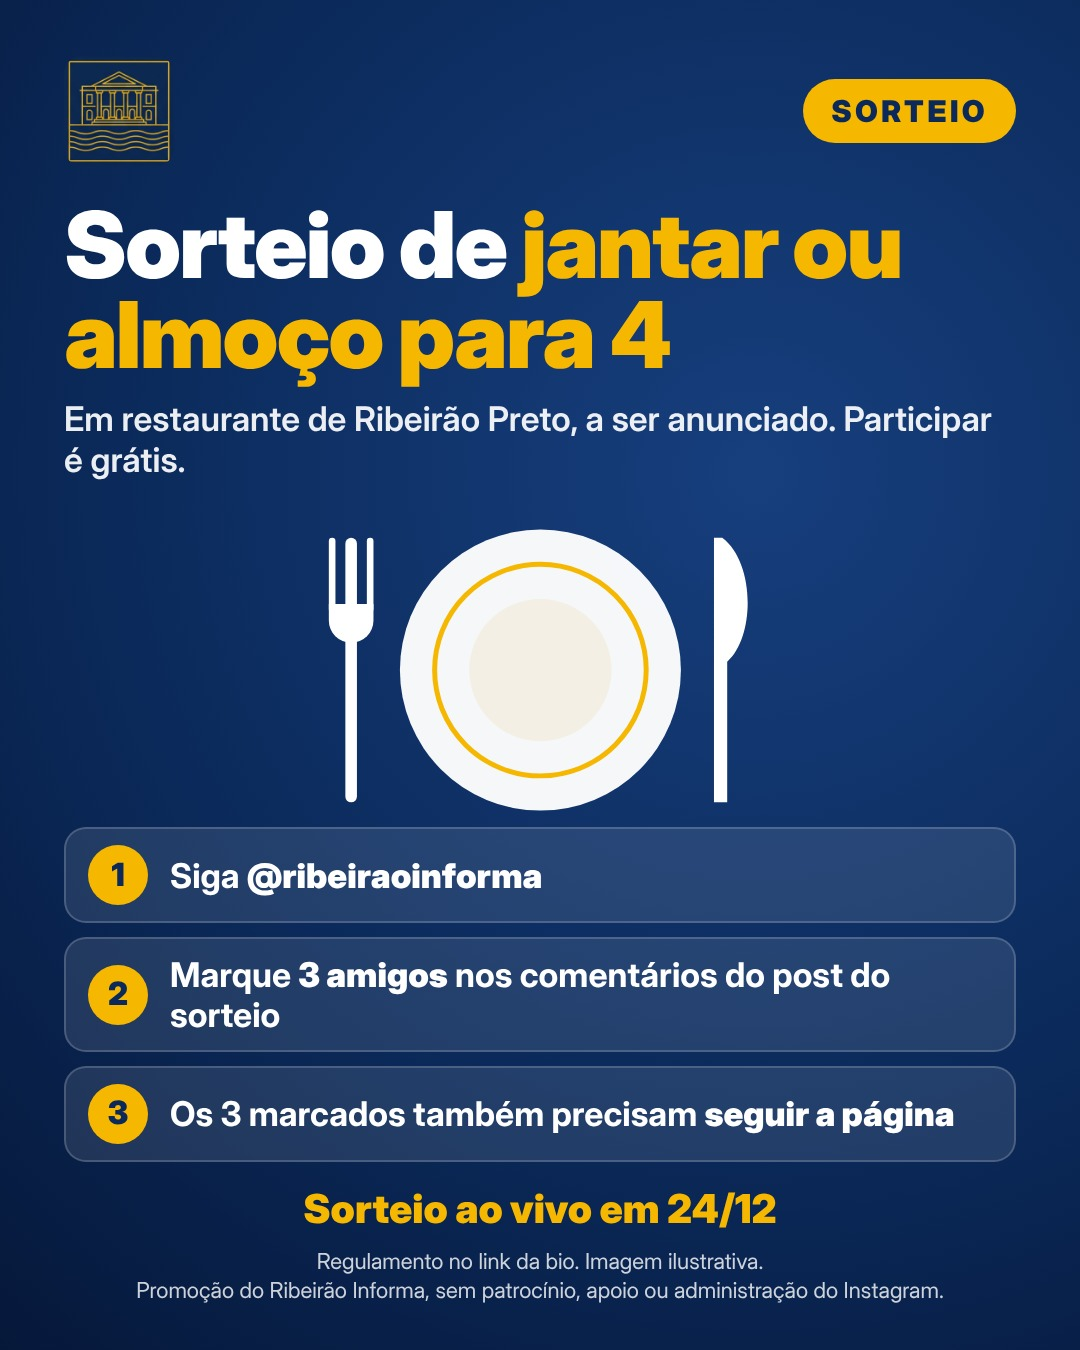
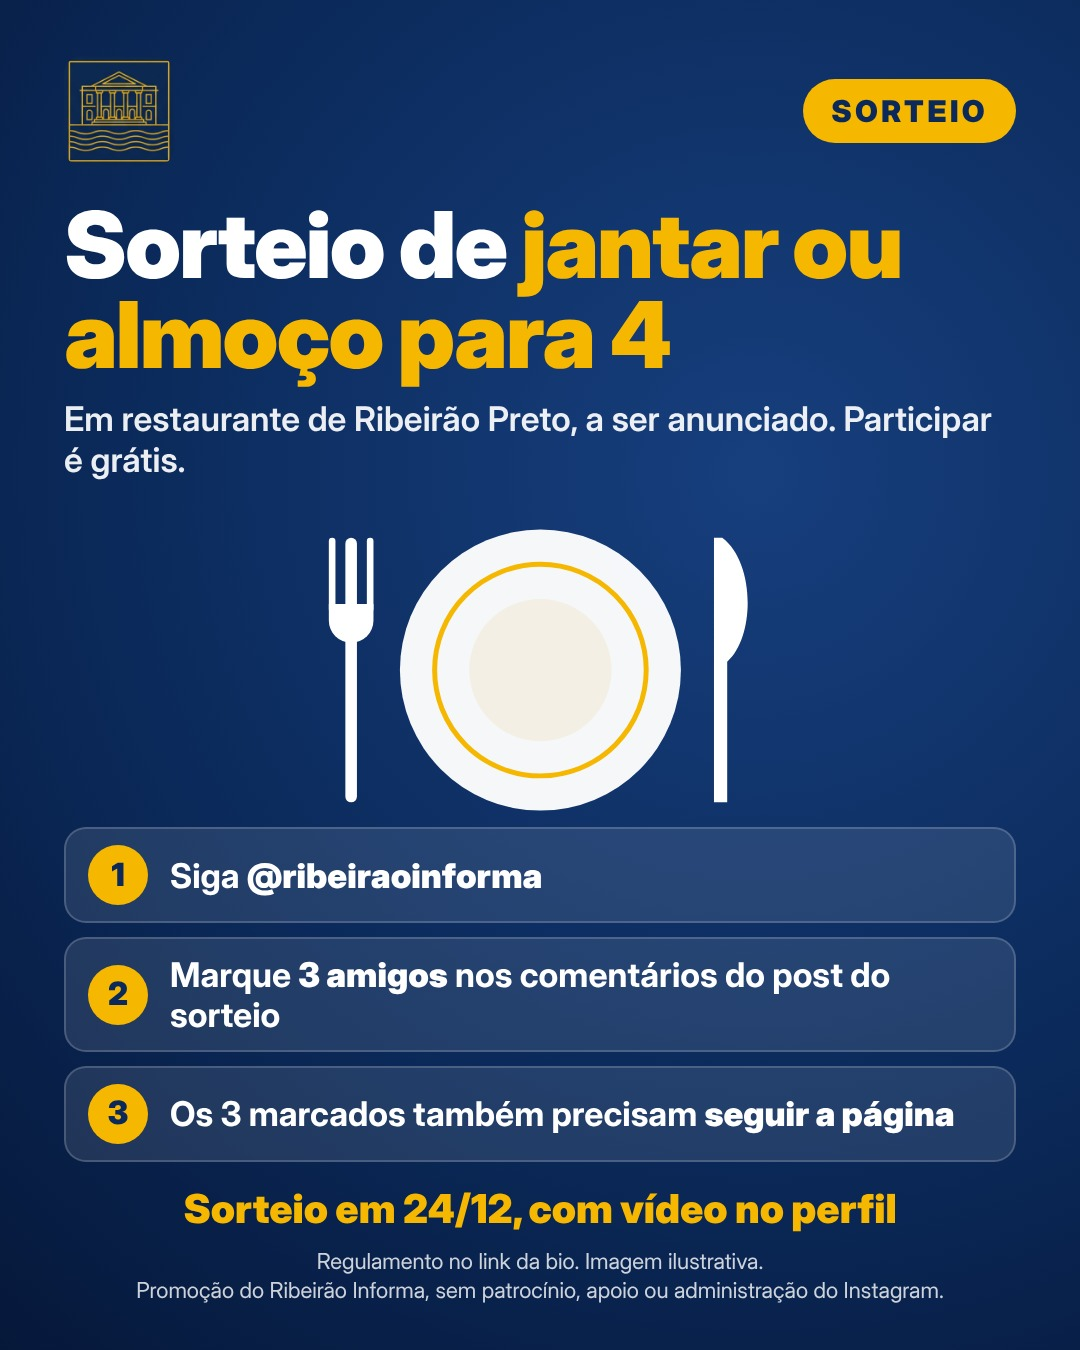
Artes do sorteio corrigidas (sorteio gravado, não ao vivo)
Claude-Session: https://claude.ai/code/session_0182ehLtrWeJW57EXD5x7FYx

Changed region(s): [[0.1528, 0.8711, 0.8556, 0.9333]]

diff --git a/sorteio/index.html b/sorteio/index.html
@@ -7,7 +7,7 @@
 <meta name="description" content="Regulamento do sorteio do Ribeirão Informa: jantar ou almoço para 4 pessoas em restaurante de Ribeirão Preto.">
 <meta property="og:title" content="Sorteio: jantar ou almoço para 4 | Ribeirão Informa">
 <meta property="og:description" content="Siga @ribeiraoinforma, marque 3 amigos no post fixado. Inscrições até 23/12. Sorteio em 24/12.">
-<meta property="og:image" content="https://ribeiraoinforma.github.io/midia/2026-11-28/sorteio-feed.jpg">
+<meta property="og:image" content="https://ribeiraoinforma.github.io/midia/2026-11-28/sorteio-feed-v2.jpg">
 <link rel="icon" href="/icones/favicon-32-b.png">
 <style>
 :root{--azul:#0B2A5B;--ouro:#F5B700;--txt:#1b2333;--fundo:#f4f6fa}
@@ -30,7 +30,7 @@ footer{text-align:center;font-size:.85rem;color:#667;padding:20px 16px}
 <main>
 <span class="tag">SORTEIO</span>
 <h1>Regulamento: sorteio de jantar ou almoço para 4 pessoas</h1>
-<img class="capa" src="/midia/2026-11-28/sorteio-feed.jpg" alt="Arte do sorteio: jantar ou almoço para 4 em restaurante de Ribeirão Preto">
+<img class="capa" src="/midia/2026-11-28/sorteio-feed-v2.jpg" alt="Arte do sorteio: jantar ou almoço para 4 em restaurante de Ribeirão Preto">
 <ol>
 <li><b>Quem organiza:</b> o perfil Ribeirão Informa (@ribeiraoinforma). Contato só pela mensagem direta do perfil.</li>
 <li><b>Período:</b> de 28 de novembro de 2026 até 23 de dezembro de 2026, às 23h59.</li>
